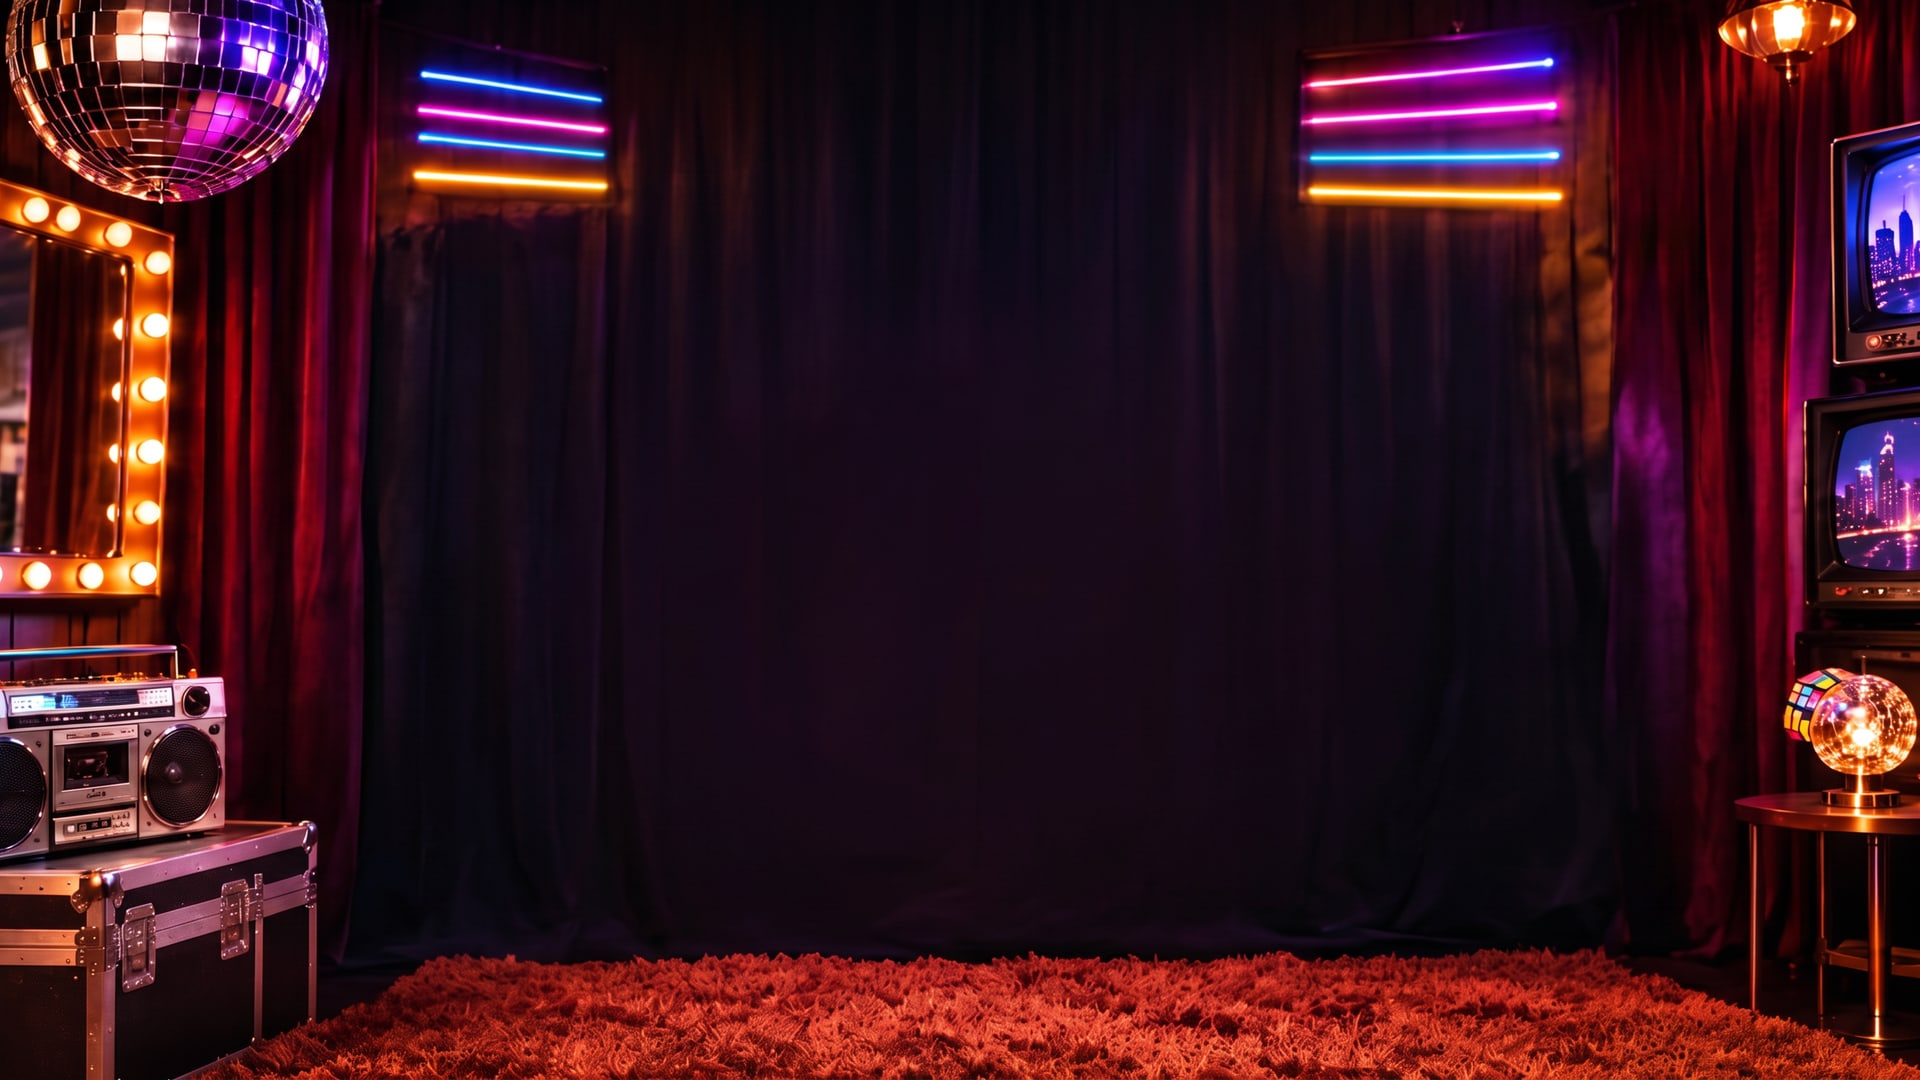
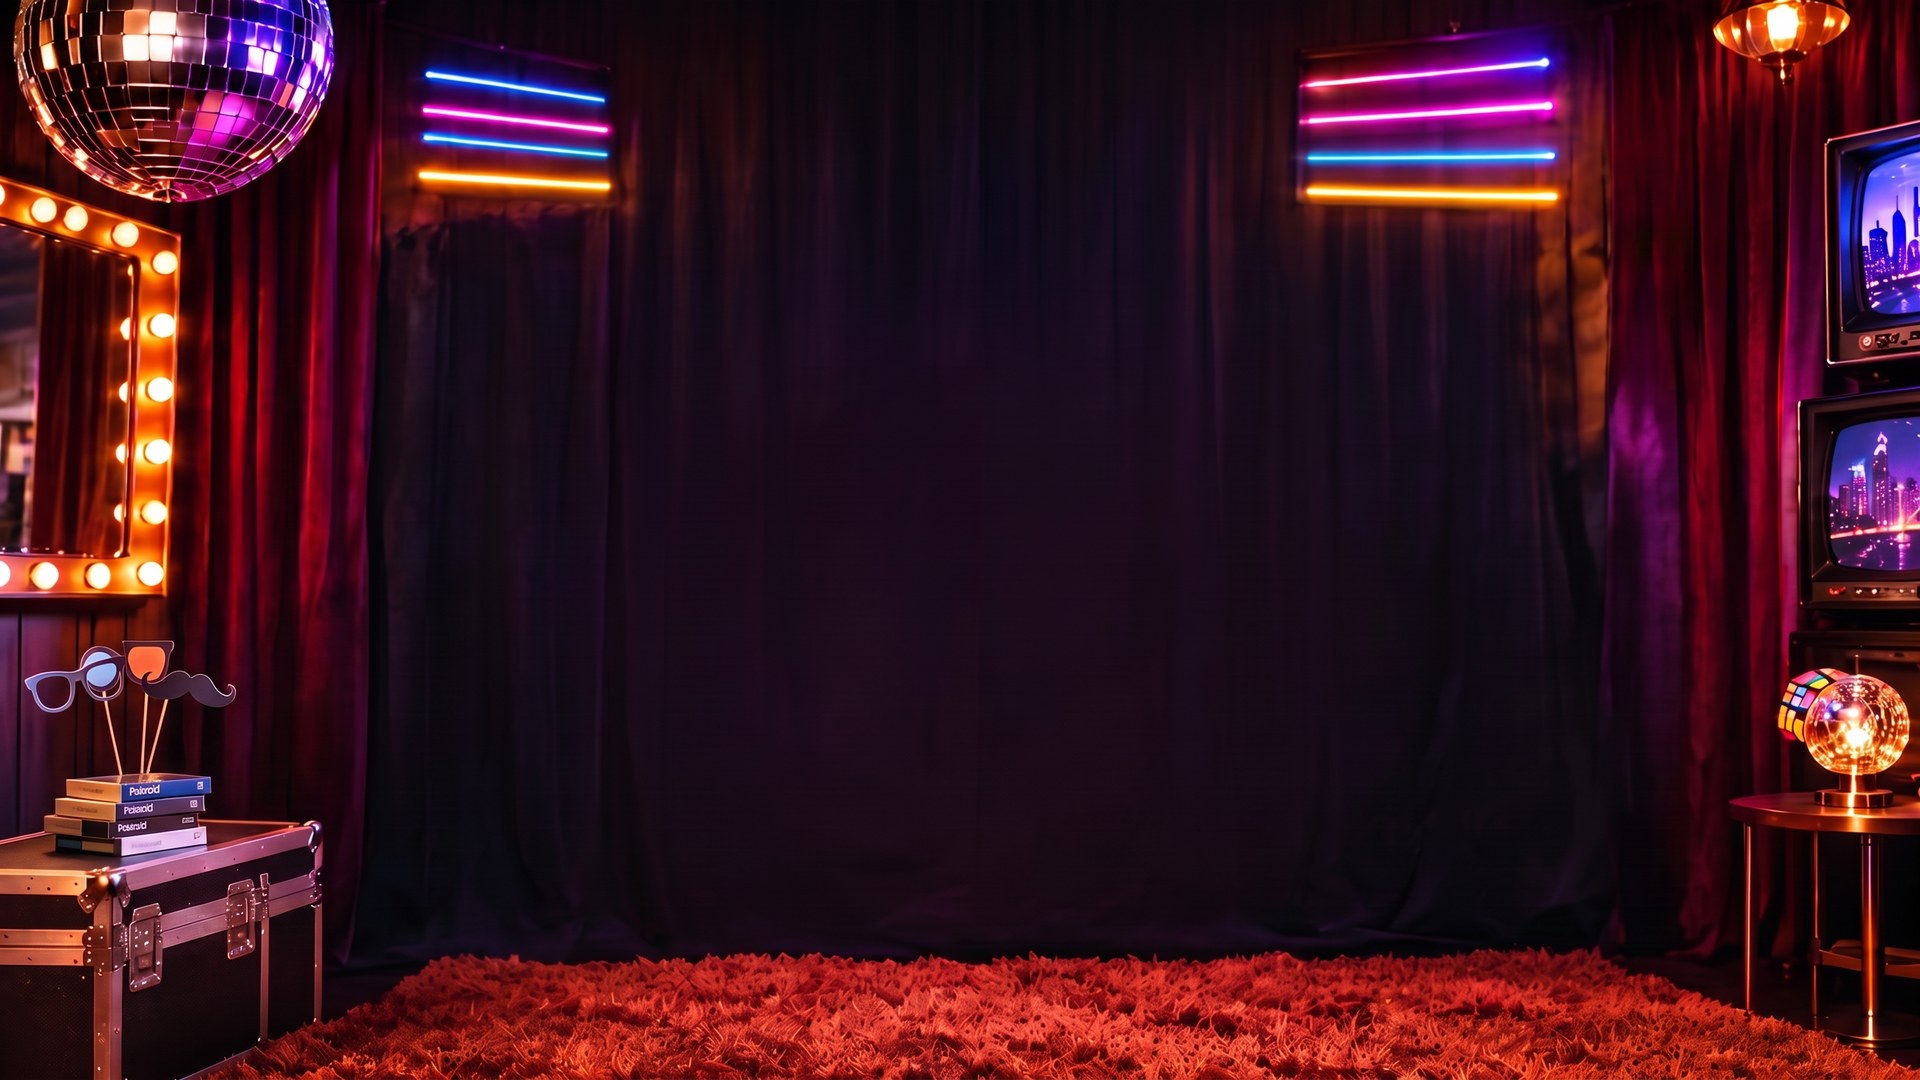
Remove boombox from Photo Booth environment plate.
OpenArt image2image edit of environment.jpg keeps disco, vanity, CRTs,
shag, and neon while replacing the flight-case boombox with Polaroid packs
and booth props. Docs and plate warm assets updated to match.

diff --git a/src/lib/plateAssets.ts b/src/lib/plateAssets.ts
@@ -27,9 +27,12 @@ export const PLATE_ASSETS: Record<PlateId, readonly string[]> = {
   ],
   lineup: [],
   photobooth: [
-    "/images/prop-crt-front.png",
+    "/images/booth/environment.jpg",
+    "/images/booth/polaroid-camera-cut.png",
+    "/images/booth/title-photo-booth-sm.png",
+    "/images/booth/sample-before.jpg",
+    "/images/booth/sample-after-face.jpg",
     "/images/chrome-80s.png",
-    "/images/booth/ref-entry.jpg",
   ],
   rsvp: ["/images/prop-rsvp-phone.png"],
 };

diff --git a/PHOTO_BOOTH.md b/PHOTO_BOOTH.md
@@ -2,7 +2,7 @@
 
 ## 1. Fixed environment (one persistent scene)
 
-The booth stage never swaps backgrounds between steps. One OpenArt environment plate (`/images/booth/environment.jpg`: shag carpet, disco ball, vanity lights, boombox on flight case, CRT stack, neon bars) stays locked; only inner panel content + Polaroid animation change.
+The booth stage never swaps backgrounds between steps. One OpenArt environment plate (`/images/booth/environment.jpg`: shag carpet, disco ball, vanity lights, flight case with Polaroid packs, CRT stack, neon bars) stays locked; only inner panel content + Polaroid animation change.
 
 ## 2. First shot = Polaroid camera before → after
 

diff --git a/public/images/booth/README.md b/public/images/booth/README.md
@@ -4,7 +4,7 @@ Generated with OpenArt from the design references. **One environment plate** is 
 
 | File | Role |
 |------|------|
-| `environment.jpg` | Full-bleed hero room (disco, vanity, boombox/flight case, CRT stack, shag carpet, neon bars) |
+| `environment.jpg` | Full-bleed hero room (disco, vanity, flight case + Polaroid packs, CRT stack, shag carpet, neon bars) |
 | `environment-plate.png` | Source 2K PNG from OpenArt |
 | `polaroid-camera-cut.png` | White Polaroid camera for first-shot / printing steps |
 | `sample-before.jpg` | Modern “before” portrait |
